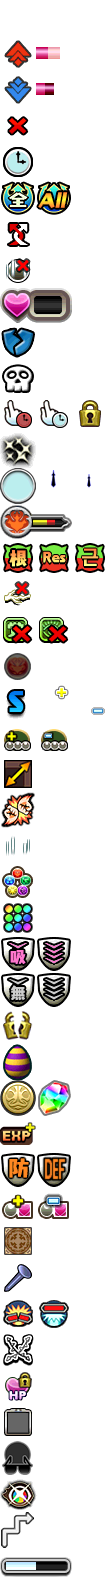
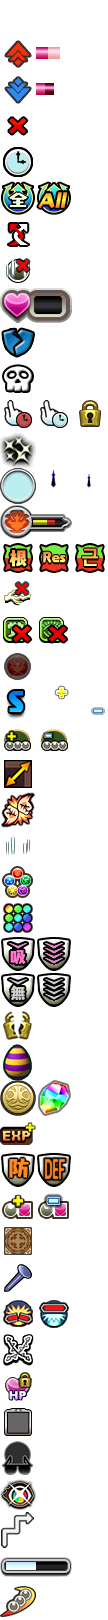
加几个新技能

diff --git a/script-skill-parser.js b/script-skill-parser.js
@@ -992,7 +992,7 @@ function counterAttack(attr, prob, value) {
 	return { kind: SkillKinds.CounterAttack, attr: attr, prob: prob, value: value };
 }
 function setOrbState(orbs, state, arg) {
-	return { kind: SkillKinds.SetOrbState, orbs: orbs, state: state, arg: arg};
+	return { kind: SkillKinds.SetOrbState, orbs, state, arg};
 }
 function rateMultiply(value, rate) {
 	return { kind: SkillKinds.RateMultiply, value: value, rate: rate };
@@ -1464,6 +1464,7 @@ const skillObjectParsers = {
 		autoPath(3),
 	  ];
 	},
+	[190](attrs, count) { return setOrbState(Bin.unflags(attrs), 'combo-drop', {count: v.constant(count)}); },
 
 	[191](turns) {
 	  return activeTurns(turns, voidEnemyBuff(['damage-void']));
@@ -1729,6 +1730,7 @@ const skillObjectParsers = {
 	[259](percent) { return breakingShield(v.xShield(percent)); },
 	[260](skillStage, voiceId) { return skillPlayVoice(skillStage, voiceId); },
 	[261](percent) { return gravity(v.xCHP(percent), 'single'); },
+	[262](count) { return setOrbState(Attributes.orbs(), 'nail', {count: v.constant(count)}); },
 	[263](turns, cap, attr, type) { //按属性改变伤害上限主动技
 		return activeTurns(turns,
 			increaseDamageCapacity(cap * 1e8, void 0, Bin.unflags(attr), Bin.unflags(type))
@@ -1801,7 +1803,7 @@ function renderSkillEntry(skills)
 						break;
 					}
 					case SkillKinds.GenerateOrbs: { //产生珠子
-						let orbs = skill.orbs, exclude = skill.exclude, count = skill.count;
+						const { orbs, exclude, count } = skill;
 						boardsBar.boards.forEach(board=>board.generateOrbs(orbs, count, exclude));
 						break;
 					}
@@ -2462,9 +2464,13 @@ function renderSkill(skill, option = {})
 			break;
 		}
 		case SkillKinds.SetOrbState: {
-			let orbs = skill.orbs, state = skill.state, arg = skill.arg;
+			const {orbs, state, arg} = skill;
 			let dict = {
-				orbs: renderOrbs(orbs, {className: state, affix: true}),
+				orbs: renderOrbs(orbs, {
+					//有的时候附加效果限制个数，这个附加图标加到文字里面的图标上面的去不好看也不准确，应该只加到面板里。
+					//className: state,
+					affix: true
+				}),
 				icon: createIcon('orb-' + state),
 			};
 			switch (state)
@@ -2486,6 +2492,18 @@ function renderSkill(skill, option = {})
 				}
 				case "bound":{
 					frg.ap(tsp.skill.set_orb_state_bound(dict));
+					break;
+				}
+				case "combo-drop":{
+					if (arg.count.value < 42)
+						dict.value = renderValue(arg.count, {unit: tsp.unit.orbs});
+					frg.ap(tsp.skill.set_orb_state_combo_drop(dict));
+					break;
+				}
+				case "nail":{
+					if (arg.count.value < 42)
+						dict.value = renderValue(arg.count, {unit: tsp.unit.orbs});
+					frg.ap(tsp.skill.set_orb_state_nail(dict));
 					break;
 				}
 			}
@@ -2911,6 +2929,8 @@ function renderAttrs(attrs, option = {}) {
 function renderOrbs(attrs, option = {}) {
 	if (!Array.isArray(attrs))
 		attrs = [attrs ?? 0];
+	else
+		attrs = [...attrs];
 
 	const frg = document.createDocumentFragment();
 	if (typeof localTranslating == "undefined") return frg;
@@ -2922,7 +2942,7 @@ function renderOrbs(attrs, option = {}) {
 		let attrBin = new Bin(attrs);
 		if ((attrBin.int & 0b1111111111) == 0b1111111111) { //十种珠子
 			frg.ap(tsp.orbs.all());
-			attrs.length = 0;
+			attrs.length = 0; //之前是引用，这里会导致数组被清空的错误
 		} else if ((attrBin.int & 0b11111) == 0b11111) { //基础5色
 			frg.ap(renderOrbs('_5color'));
 			attrBin = new Bin(attrBin.int & 0b1111100000);

diff --git a/script-json_data.js b/script-json_data.js
@@ -130,6 +130,8 @@ let localTranslating = {
 			set_orb_state_locked: tp`${'icon'}Locks ${'value'}${'orbs'}`,
 			set_orb_state_unlocked: tp`${'icon'}Unlocks ${'orbs'}`,
 			set_orb_state_bound: tp`${'orbs'} are unmatchable`,
+			set_orb_state_combo_drop: tp`Add ${'value'} ${'icon'}combo drop on ${'orbs'}`,
+			set_orb_state_nail: tp`Add ${'value'} ${'icon'}nail on ${'orbs'}`,
 			rate_multiply: tp`${'rate'} ${'value'} when entering as leader`,
 			rate_multiply_drop: tp`${'icon'}Drop rate`,
 			rate_multiply_coin: tp`${'icon'}Coins`,
@@ -1071,14 +1073,46 @@ const specialSearchFunctions = (function() {
 	}
 	function lock_Addition(card)
 	{
-		const searchTypeArray = [152];
-		const skill = getCardActiveSkill(card, searchTypeArray);
-		if (!skill) return;
-		const sk = skill.params;
-		const fragment = document.createDocumentFragment();
-		fragment.appendChild(createSkillIcon('orb-locked'));
-		fragment.appendChild(createOrbsList(Bin.unflags(sk[0] || 1)));
-		return fragment;
+		const searchTypeArray = [152, 190, 262];
+		const skills = getCardActiveSkills(card, searchTypeArray, true);
+		if (!skills.length) return;
+		return skills.map(skill=>{
+			const sk = skill.params;
+			const fragment = document.createDocumentFragment();
+			switch (skill.type) {
+				case 152:{
+					fragment.append(
+						createSkillIcon('orb-locked')
+					);
+					if (sk[1] < 42) fragment.append(`×${sk[1]}`);
+					fragment.append(
+						createOrbsList(Bin.unflags(sk[0] || 1))
+					);
+					break;
+				}
+				case 190:{
+					fragment.append(
+						createSkillIcon('orb-combo-drop')
+					);
+					if (sk[1] < 42) fragment.append(`×${sk[1]}`);
+					fragment.append(
+						createOrbsList(Bin.unflags(sk[0] || 1))
+					);
+					break;
+				}
+				case 262:{
+					fragment.append(
+						createSkillIcon('orb-nail')
+					);
+					if (sk[0] < 42) fragment.append(`×${sk[0]}`);
+					fragment.append(
+						createOrbsList(Attributes.orbs())
+					);
+					break;
+				}
+			}
+			return fragment;
+		}).nodeJoin('');
 	}
 	function dropLock_Addition(card)
 	{
@@ -2454,10 +2488,26 @@ const specialSearchFunctions = (function() {
 							}
 						}
 						const fragment = document.createDocumentFragment();
-						fragment.appendChild(document.createTextNode(`强化`));
+						fragment.appendChild(createSkillIcon('orb-enhanced'));
 						fragment.appendChild(createOrbsList(attrs));
 						return fragment;
 					}
+				},
+				{name:"Add Combo Drop",otLangName:{chs:"加豆荚",cht:"加豆莢"},
+					function:cards=>cards.filter(card=>{
+						const searchTypeArray = [190];
+						const skill = getCardActiveSkill(card, searchTypeArray);
+						return skill;
+					}),
+					addition:lock_Addition
+				},
+				{name:"Add Nail",otLangName:{chs:"加钉子",cht:"加釘子"},
+					function:cards=>cards.filter(card=>{
+						const searchTypeArray = [262];
+						const skill = getCardActiveSkill(card, searchTypeArray);
+						return skill;
+					}),
+					addition:lock_Addition
 				},
 				{name:"Bind self matchable",otLangName:{chs:"自封消珠 debuff",cht:"自封消珠 debuff"},
 					function:cards=>cards.filter(card=>{

diff --git a/service-worker.js b/service-worker.js
@@ -37339,11 +37339,11 @@ const cachesMap = new Map([
 	],
 	[
 		"script-json_data.js",
-		"542e14ea40fb4e78f90b9042c9cab73e"
+		"dfaedd802c88abd2dc04807133cd292c"
 	],
 	[
 		"script-skill-parser.js",
-		"611d6dbe1cb34e394b466d5548413bb5"
+		"1747fe828fc25e0394f82245eccca5c7"
 	],
 	[
 		"script-universal_function.js",
@@ -37363,11 +37363,11 @@ const cachesMap = new Map([
 	],
 	[
 		"style-monsterimages.css",
-		"27fbe6036d87bcbcba695b3855d6d175"
+		"825aea31ea61e82142a634ccc7230d9f"
 	],
 	[
 		"style.css",
-		"bf69ae63b86117783d918534b14b3a54"
+		"0548eea7ac972f4bac0ffebf384a51e5"
 	],
 	[
 		"temp.js",
@@ -37411,7 +37411,7 @@ const cachesMap = new Map([
 	],
 	[
 		"languages/zh-hans.js",
-		"71138b459d0d9851f2554e6336f32a98"
+		"8552840a3934a8eee0d0e001419036d9"
 	],
 	[
 		"languages/zh-hant.css",
@@ -37419,7 +37419,7 @@ const cachesMap = new Map([
 	],
 	[
 		"languages/zh-hant.js",
-		"677bd55683bbe9f7055523ed462db5b9"
+		"3f4938a03f1d14544bd9da895126ed6c"
 	],
 	[
 		"images/attrs.png",
@@ -37571,7 +37571,7 @@ const cachesMap = new Map([
 	],
 	[
 		"images/icon-skills.png",
-		"fae3e58d36a30373bf184d1c4b9e78d5"
+		"9b5c57a64636cbfddffbb4549f5e6035"
 	],
 	[
 		"images/icon-switch-leader.png",

diff --git a/languages/zh-hans.js b/languages/zh-hans.js
@@ -115,6 +115,8 @@ const _localTranslating = {
 			set_orb_state_locked: tp`将${'orbs'}${'icon'}锁定${'value'}`,
 			set_orb_state_unlocked: tp`${'icon'}解除${'orbs'}的锁定状态`,
 			set_orb_state_bound: tp`无法消除${'orbs'}`,
+			set_orb_state_combo_drop: tp`${'orbs'}增加${'value'}${'icon'}豆荚状态`,
+			set_orb_state_nail: tp`${'orbs'}增加${'value'}${'icon'}钉子状态`,
 			rate_multiply: tp`作为队长进入地下城时，${'rate'}变为${'value'}`,
 			rate_multiply_drop: tp`${'icon'}怪物蛋掉落率`,
 			rate_multiply_coin: tp`${'icon'}金币掉落率`,

diff --git a/languages/zh-hant.js b/languages/zh-hant.js
@@ -115,6 +115,8 @@ const _localTranslating = {
 			set_orb_state_locked: tp`將${'orbs'}${'icon'}鎖定${'value'}`,
 			set_orb_state_unlocked: tp`${'icon'}解除${'orbs'}的鎖定狀態`,
 			set_orb_state_bound: tp`無法消除${'orbs'}`,
+			set_orb_state_combo_drop: tp`${'orbs'}增加${'value'}${'icon'}豆莢狀態`,
+			set_orb_state_nail: tp`${'orbs'}增加${'value'}${'icon'}釘子狀態`,
 			rate_multiply: tp`作為隊長進入地下城時，${'rate'}變為${'value'}`,
 			rate_multiply_drop: tp`${'icon'}怪物蛋掉落率`,
 			rate_multiply_coin: tp`${'icon'}金幣掉落率`,

diff --git a/style-monsterimages.css b/style-monsterimages.css
@@ -2075,7 +2075,7 @@
 	--icon-y-index: 1;
 }
 .orb.drop::before
-{
+{ /* 珠子加掉率 */
 	content: "";
 	--icon-y-index: 2;
 }
@@ -2083,11 +2083,20 @@
 {
 	filter:brightness(0.8);
 }
-.orb.bound::before
+.orb.enhanced::after
 {
 	content: "";
-	--icon-y-index: 3;
-	animation: hidden-visible-animate 0.8s infinite ease-out alternate;
+	--icon-y-index: 0;
+}
+.orb.combo-drop::before
+{ /* 有豆荚的珠子 */
+	content: "";
+	--icon-y-index: 5;
+}
+.orb.nail::before
+{ /* 有豆荚的珠子 */
+	content: "";
+	--icon-y-index: 6;
 }
 
 .orb[data-orb-icon='_5color']

diff --git a/style.css b/style.css
@@ -5037,6 +5037,10 @@ body.external-link-support #external-support{
 	width: 72px;
 	background-position-y:calc(-36px * 43);
 }
+.icon-skill[data-icon-type="orb-combo-drop"]
+{
+	background-position-y:calc(-36px * 44);
+}
 
 .card-skill-list .play-voice [data-awoken-icon="63"] {
 	cursor: pointer;
